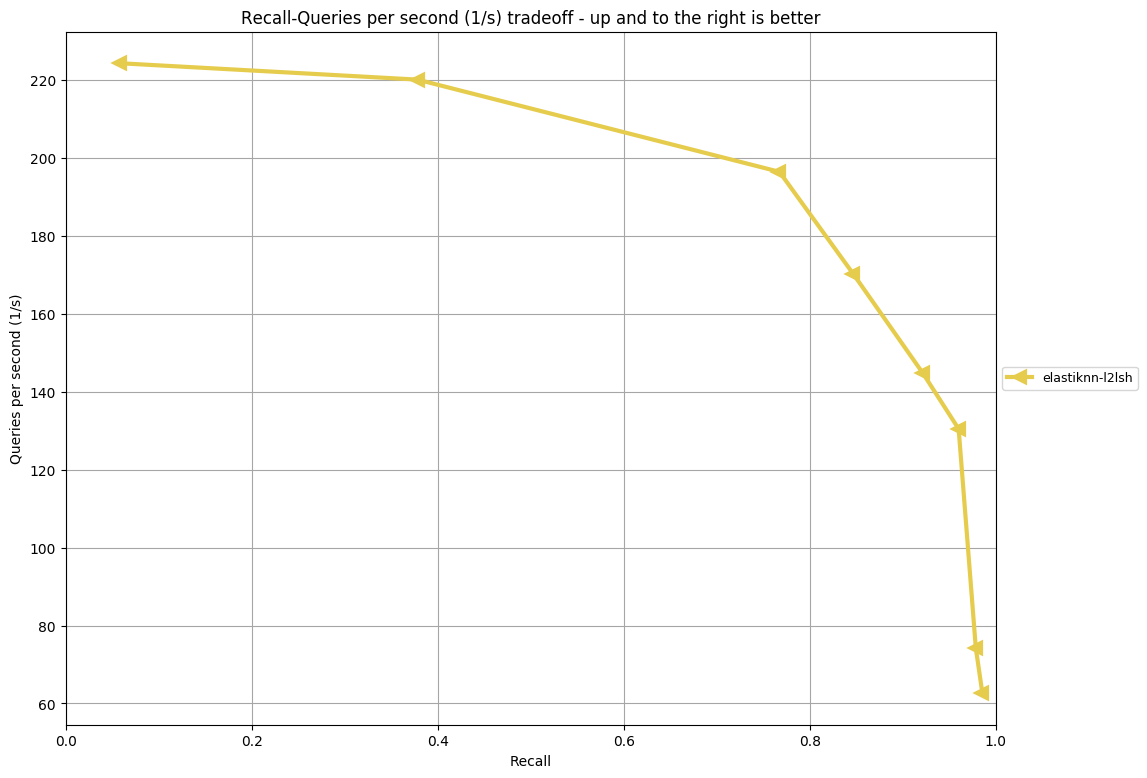
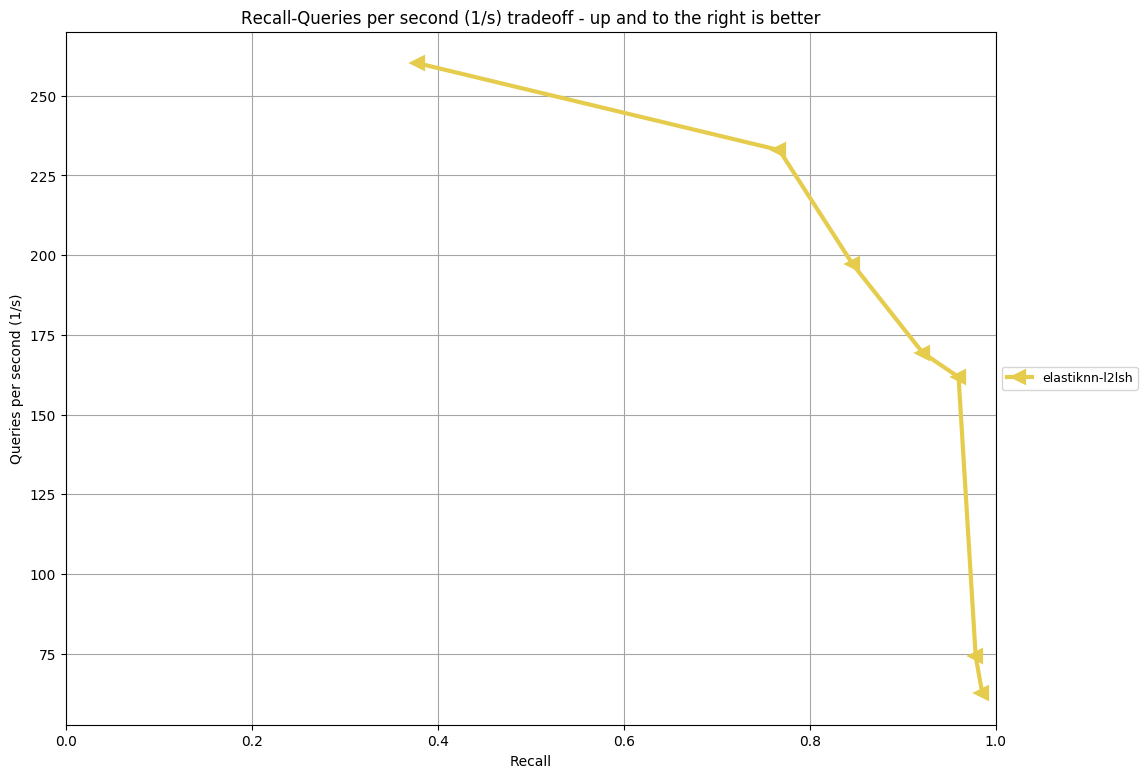
Results from official run

diff --git a/docs/pages/performance/fashion-mnist/results.md b/docs/pages/performance/fashion-mnist/results.md
@@ -13,24 +13,24 @@
 |eknn-l2lsh|L=200 k=4 w=512 candidates=500 probes=3|0.296|146.603|
 |eknn-l2lsh|L=100 k=2 w=512 candidates=500 probes=0|0.352|196.235|
 |eknn-l2lsh|L=200 k=4 w=512 candidates=1000 probes=3|0.367|130.788|
-|eknn-l2lsh|L=100 k=4 w=1024 candidates=500 probes=0|0.378|220.131|
+|eknn-l2lsh|L=100 k=4 w=1024 candidates=500 probes=0|0.379|260.192|
 |eknn-l2lsh|L=100 k=2 w=512 candidates=1000 probes=0|0.444|167.630|
-|eknn-l2lsh|L=100 k=4 w=1024 candidates=1000 probes=0|0.446|187.471|
+|eknn-l2lsh|L=100 k=4 w=1024 candidates=1000 probes=0|0.446|218.060|
 |eknn-l2lsh|L=100 k=10 w=2048 candidates=500 probes=3|0.515|153.925|
 |eknn-l2lsh|L=100 k=10 w=2048 candidates=1000 probes=3|0.570|136.792|
-|eknn-l2lsh|L=100 k=4 w=1024 candidates=500 probes=3|0.635|185.409|
+|eknn-l2lsh|L=100 k=4 w=1024 candidates=500 probes=3|0.634|212.940|
 |eknn-l2lsh|L=100 k=2 w=512 candidates=500 probes=3|0.659|151.947|
-|eknn-l2lsh|L=100 k=4 w=1024 candidates=1000 probes=3|0.716|162.176|
+|eknn-l2lsh|L=100 k=4 w=1024 candidates=1000 probes=3|0.717|182.555|
 |eknn-l2lsh|L=100 k=2 w=512 candidates=1000 probes=3|0.758|135.037|
-|eknn-l2lsh|L=100 k=4 w=2048 candidates=500 probes=0|0.767|196.462|
+|eknn-l2lsh|L=100 k=4 w=2048 candidates=500 probes=0|0.767|232.952|
 |eknn-l2lsh|L=200 k=2 w=1024 candidates=500 probes=0|0.784|138.776|
 |eknn-l2lsh|L=100 k=2 w=2048 candidates=500 probes=0|0.832|125.240|
-|eknn-l2lsh|L=100 k=4 w=2048 candidates=1000 probes=0|0.847|170.261|
+|eknn-l2lsh|L=100 k=4 w=2048 candidates=1000 probes=0|0.846|197.181|
 |eknn-l2lsh|L=200 k=2 w=1024 candidates=1000 probes=0|0.867|124.034|
 |eknn-l2lsh|L=100 k=2 w=2048 candidates=1000 probes=0|0.910|113.675|
-|eknn-l2lsh|L=100 k=4 w=2048 candidates=500 probes=3|0.922|144.801|
+|eknn-l2lsh|L=100 k=4 w=2048 candidates=500 probes=3|0.921|169.443|
 |eknn-l2lsh|L=200 k=2 w=1024 candidates=500 probes=3|0.950|79.221|
 |eknn-l2lsh|L=100 k=2 w=2048 candidates=500 probes=3|0.957|65.946|
-|eknn-l2lsh|L=100 k=4 w=2048 candidates=1000 probes=3|0.960|130.473|
+|eknn-l2lsh|L=100 k=4 w=2048 candidates=1000 probes=3|0.960|161.772|
 |eknn-l2lsh|L=200 k=2 w=1024 candidates=1000 probes=3|0.979|74.191|
 |eknn-l2lsh|L=100 k=2 w=2048 candidates=1000 probes=3|0.986|62.632|
